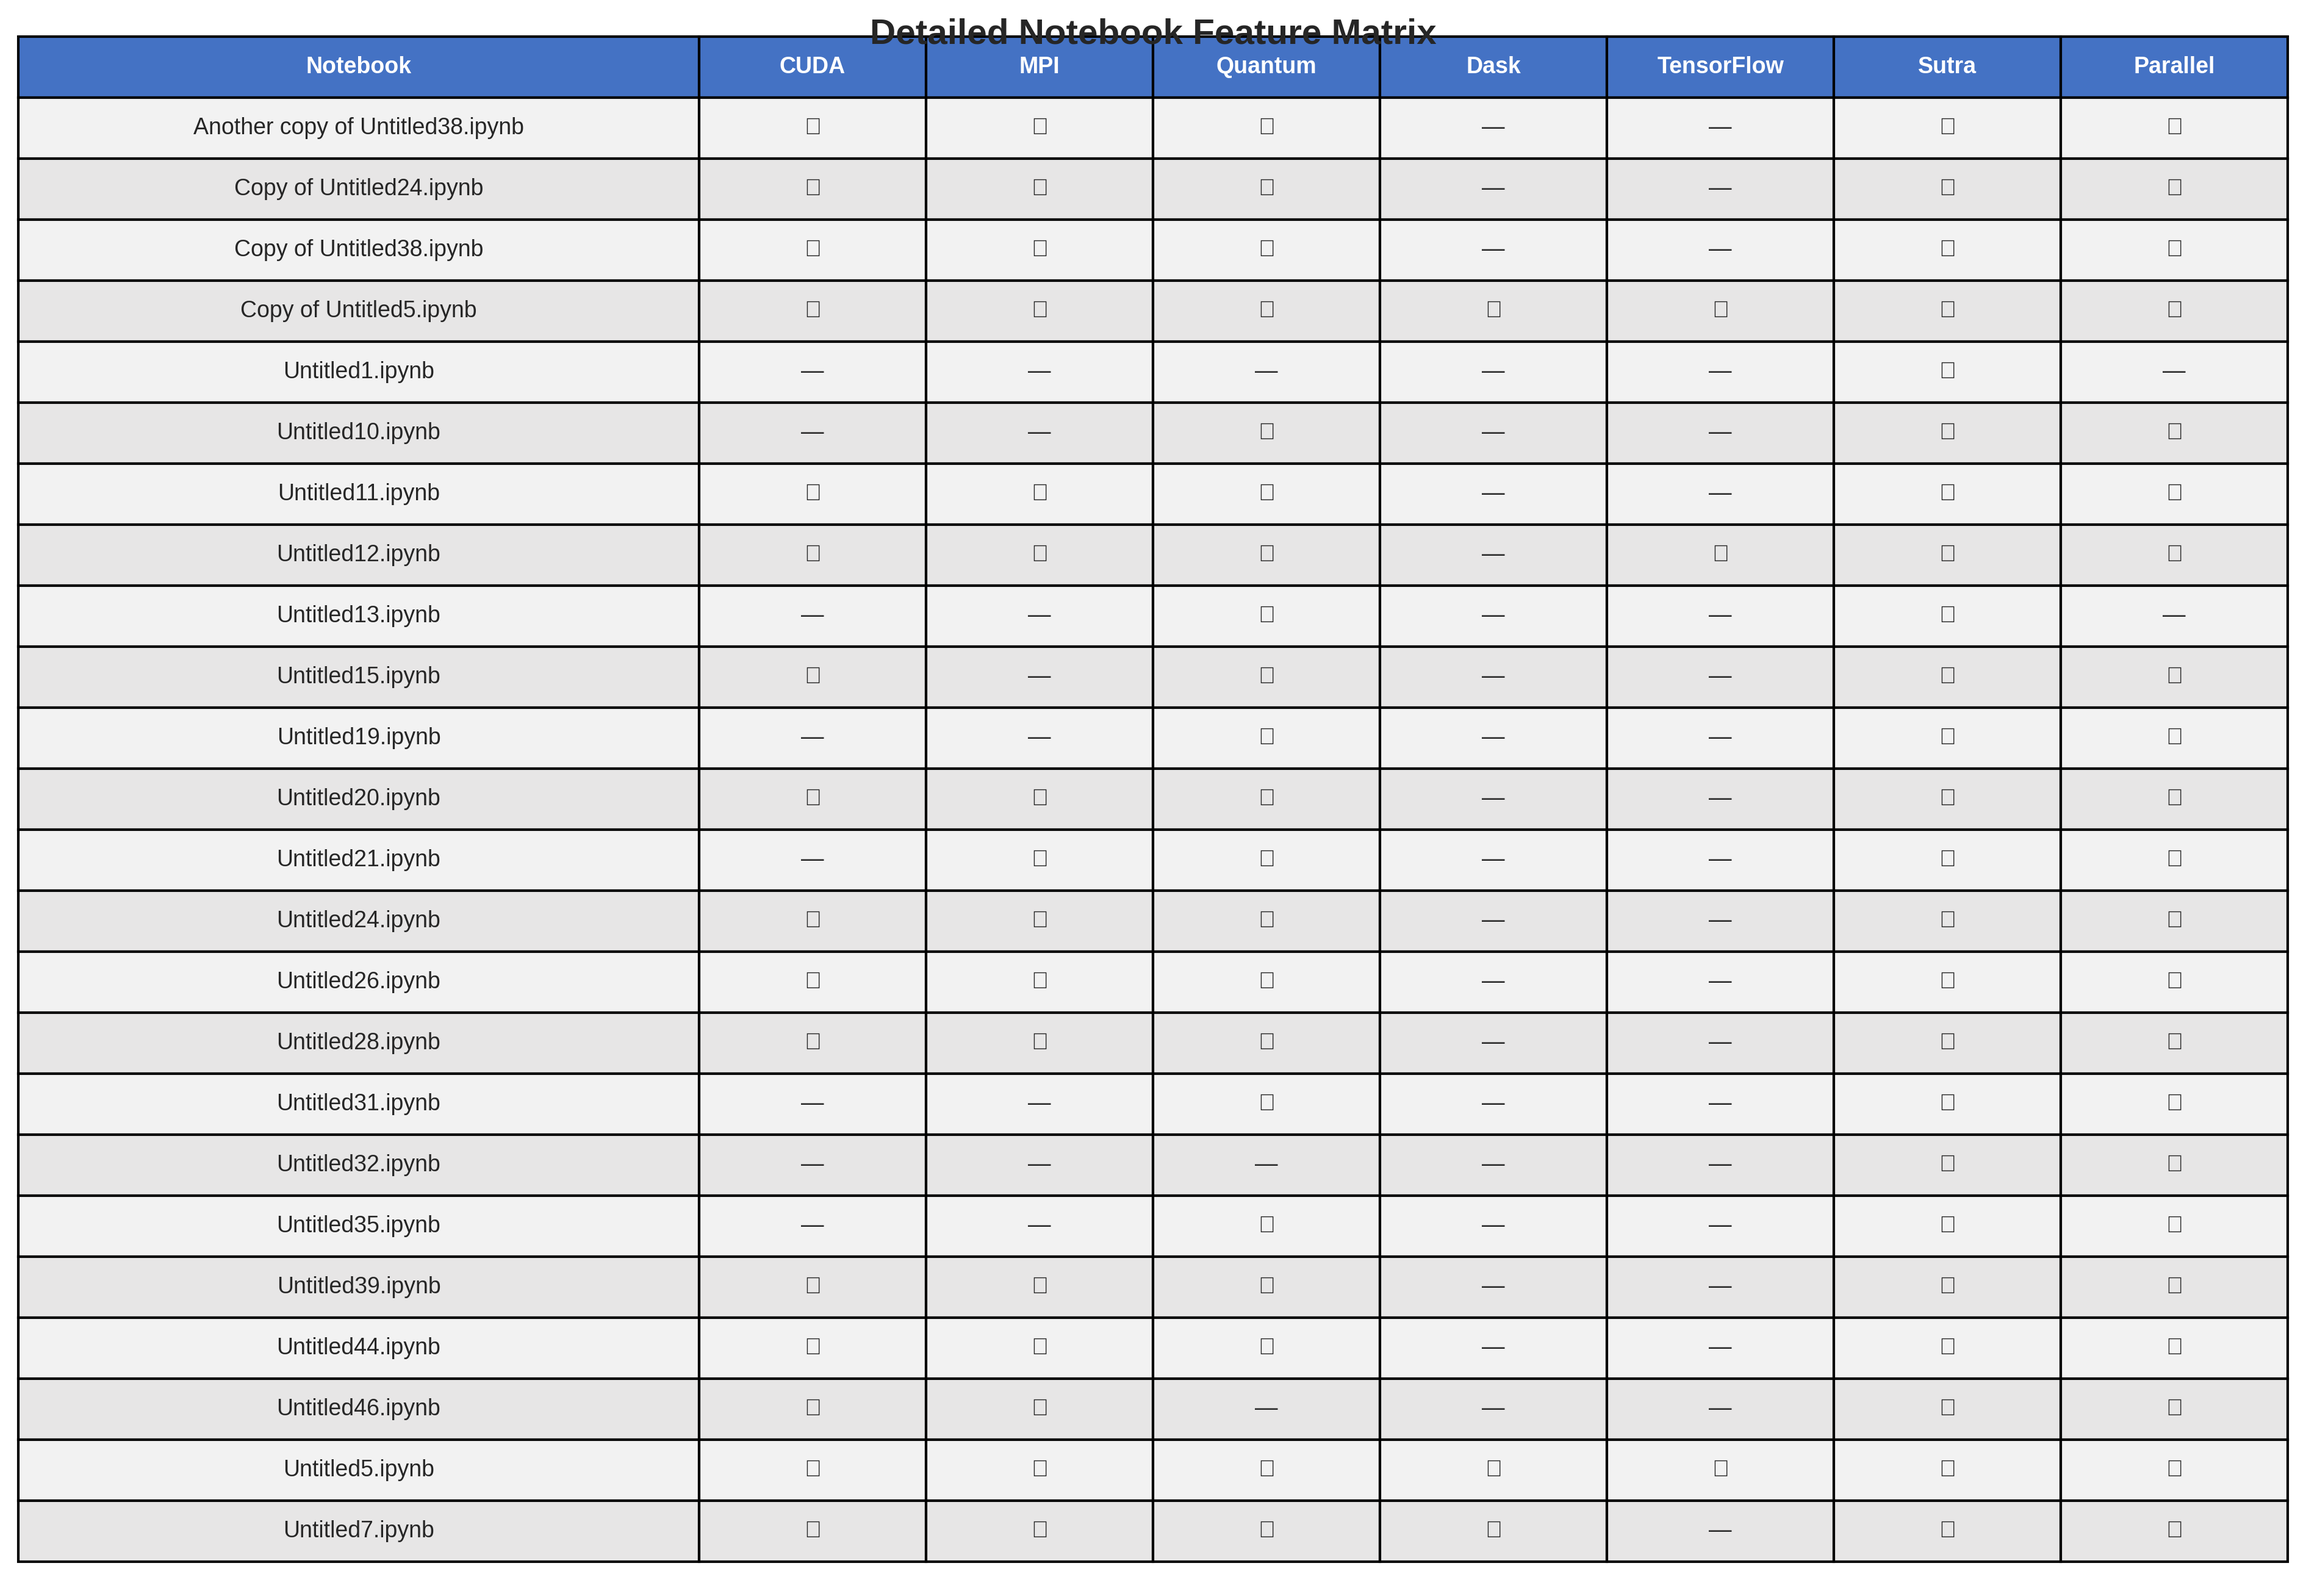
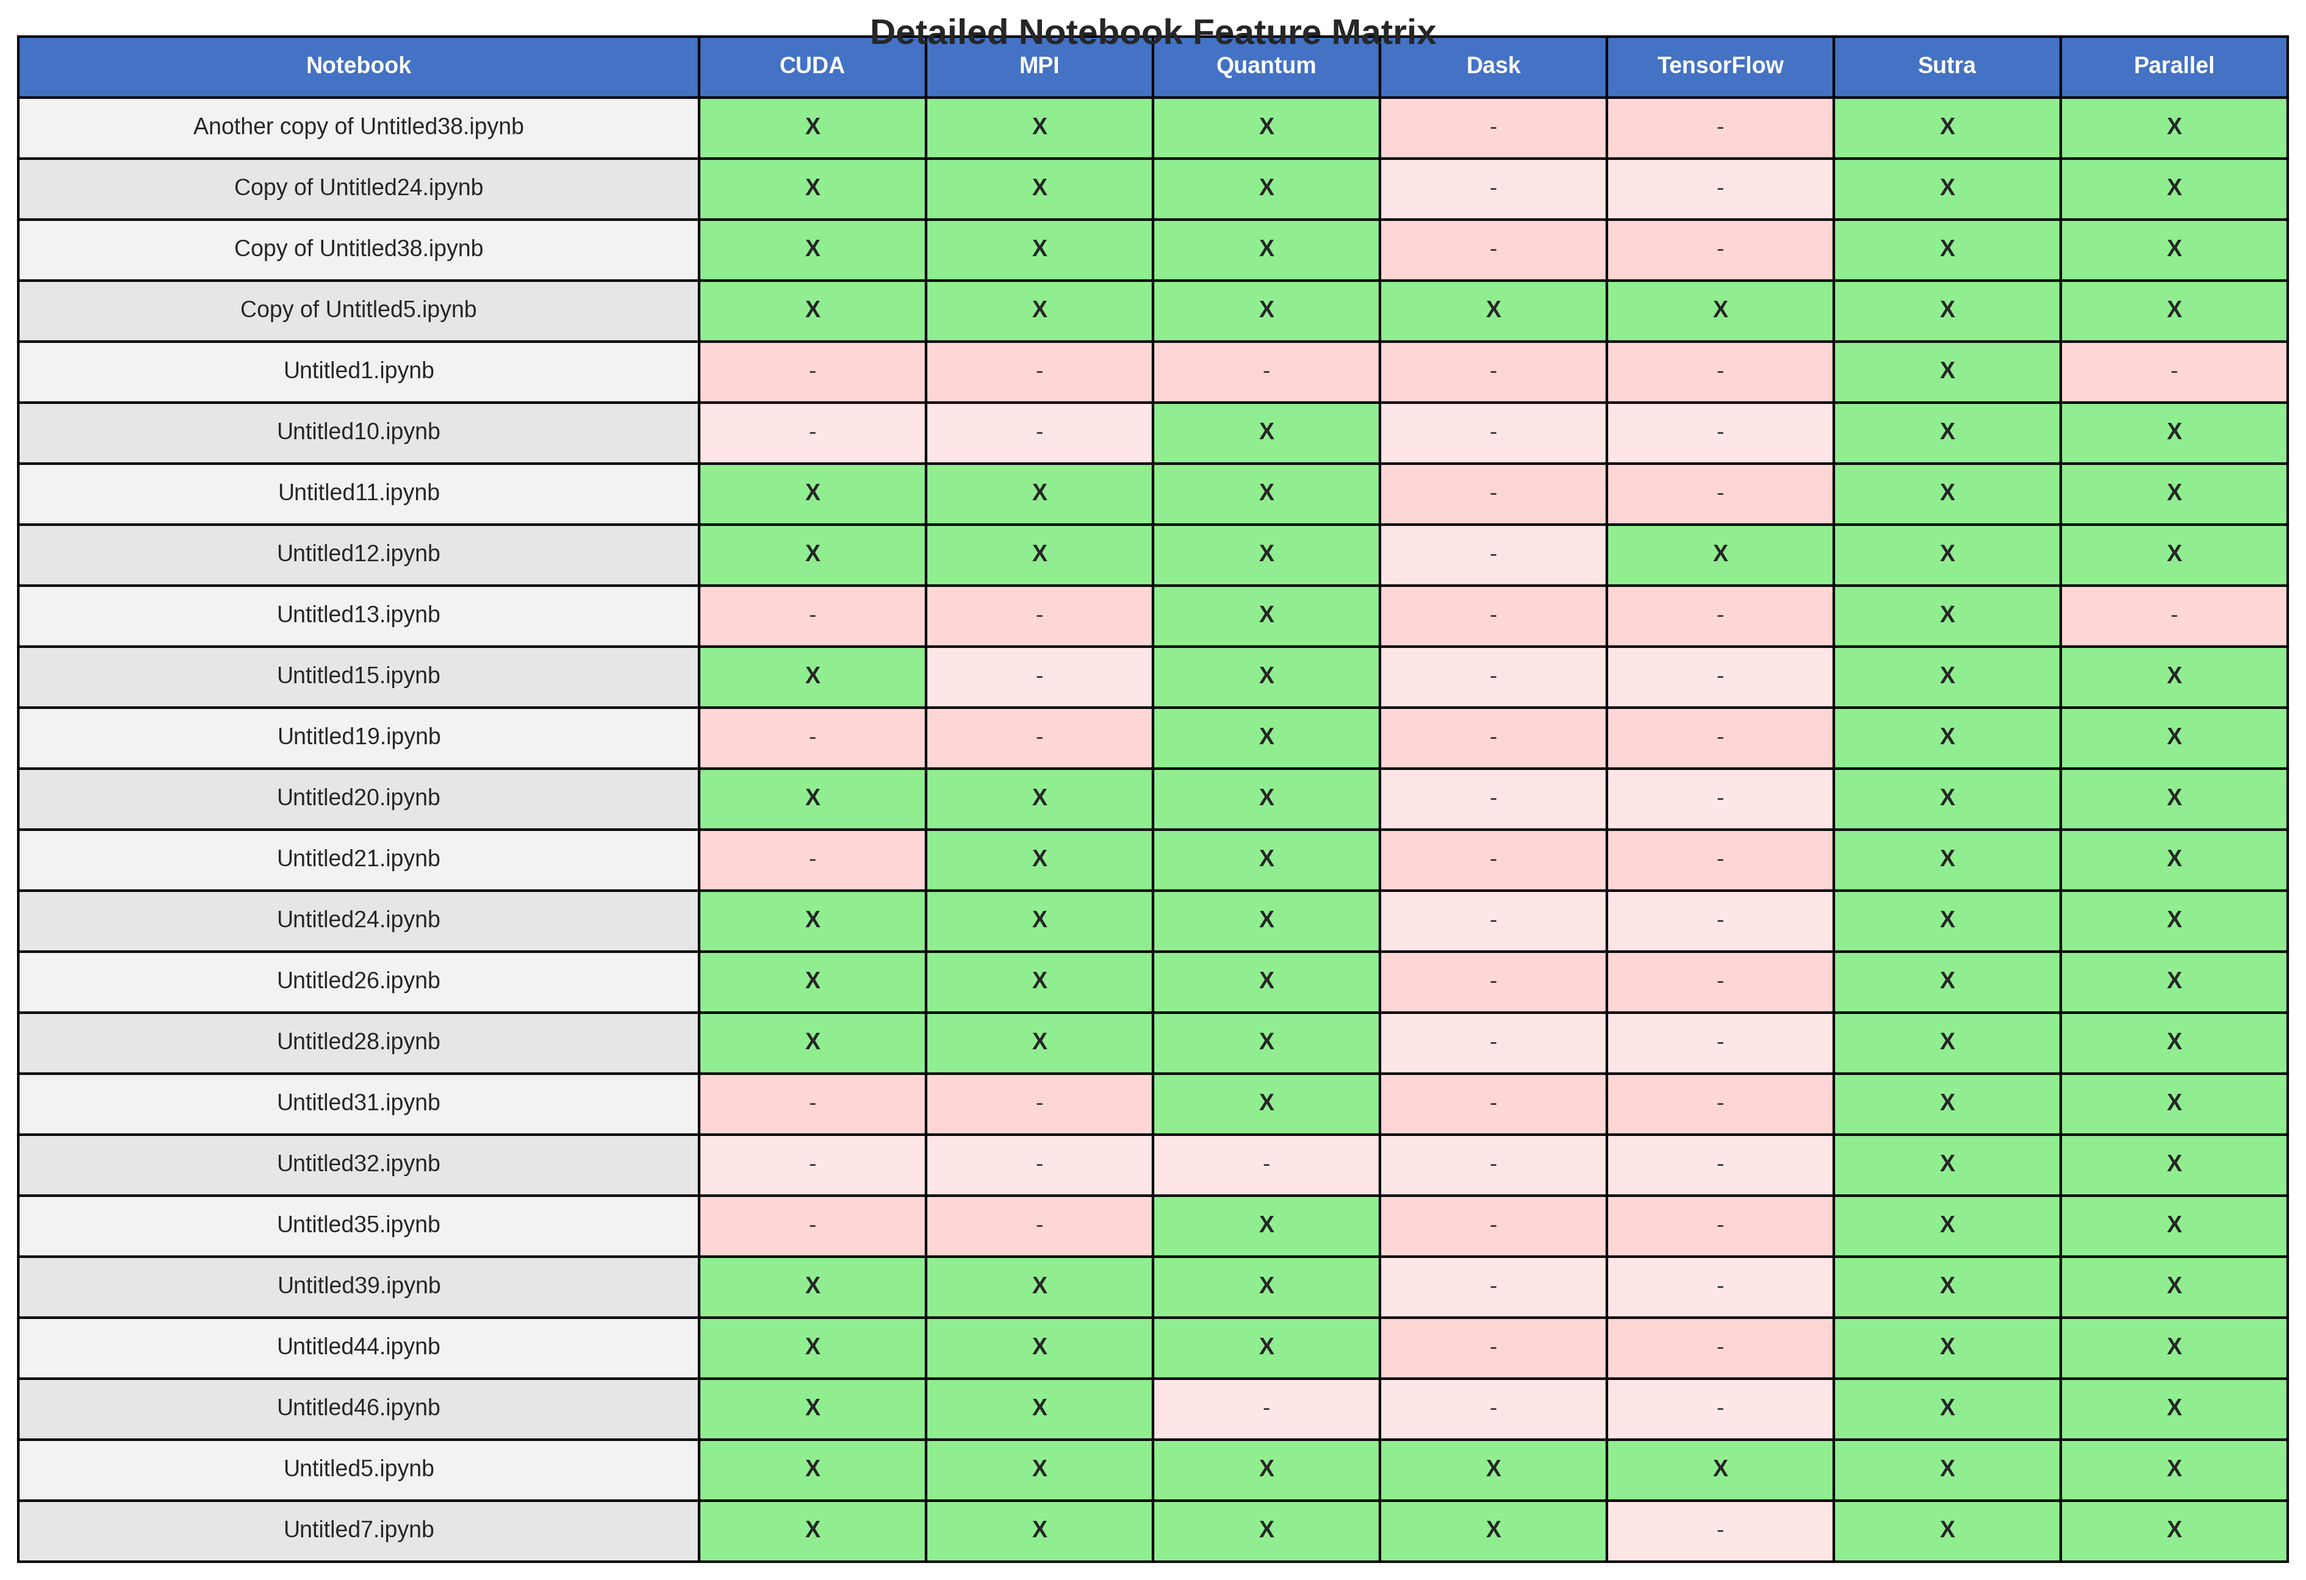
fix: improve visualization script and regenerate images
- Fix set_ticklabels() warning by properly setting xticks before labels
- Replace Unicode check mark with 'X' to avoid font glyph issues
- Add color coding to feature table (green for present, light red for absent)
- Make feature markers bold for better visibility
- Regenerate all visualizations without warnings

diff --git a/visualize_notebook_inventory.py b/visualize_notebook_inventory.py
@@ -137,7 +137,8 @@ def create_visualizations():
                    'With Dask', 'With TensorFlow']
     combo_counts = [full_stack, quantum_only, cuda_mpi, minimal, has_dask, has_tensorflow]
 
-    bars = ax4.bar(combinations, combo_counts, color=colors[:6],
+    x_pos = np.arange(len(combinations))
+    bars = ax4.bar(x_pos, combo_counts, color=colors[:6],
                    edgecolor='black', linewidth=1.2, alpha=0.8)
     ax4.set_ylabel('Number of Notebooks', fontsize=11)
     ax4.set_title('Feature Combination Analysis', fontsize=12, fontweight='bold', pad=15)
@@ -150,6 +151,7 @@ def create_visualizations():
                 f'{int(count)}', ha='center', va='bottom', fontsize=11, fontweight='bold')
 
     ax4.grid(axis='y', alpha=0.3)
+    ax4.set_xticks(x_pos)
     ax4.set_xticklabels(combinations, rotation=15, ha='right')
 
     # Add overall title
@@ -198,7 +200,7 @@ def create_detailed_notebook_table():
     for i, notebook in enumerate(notebooks):
         row = [notebook]
         for feature in features.keys():
-            value = '✓' if features[feature][i] == 1 else '—'
+            value = 'X' if features[feature][i] == 1 else '-'
             row.append(value)
         table_data.append(row)
 
@@ -217,14 +219,24 @@ def create_detailed_notebook_table():
         cell.set_facecolor('#4472C4')
         cell.set_text_props(weight='bold', color='white')
 
-    # Alternate row colors
+    # Color code cells based on feature presence
     for i in range(1, len(table_data) + 1):
         for j in range(len(headers)):
             cell = table[(i, j)]
-            if i % 2 == 0:
-                cell.set_facecolor('#E7E6E6')
-            else:
-                cell.set_facecolor('#F2F2F2')
+            if j == 0:  # Notebook name column
+                if i % 2 == 0:
+                    cell.set_facecolor('#E7E6E6')
+                else:
+                    cell.set_facecolor('#F2F2F2')
+            else:  # Feature columns
+                if table_data[i-1][j] == 'X':
+                    cell.set_facecolor('#90EE90')  # Light green for present features
+                    cell.set_text_props(weight='bold')
+                else:
+                    if i % 2 == 0:
+                        cell.set_facecolor('#FFE6E6')  # Light red for absent features
+                    else:
+                        cell.set_facecolor('#FFD6D6')
 
     plt.title('Detailed Notebook Feature Matrix',
               fontsize=14, fontweight='bold', pad=20)
